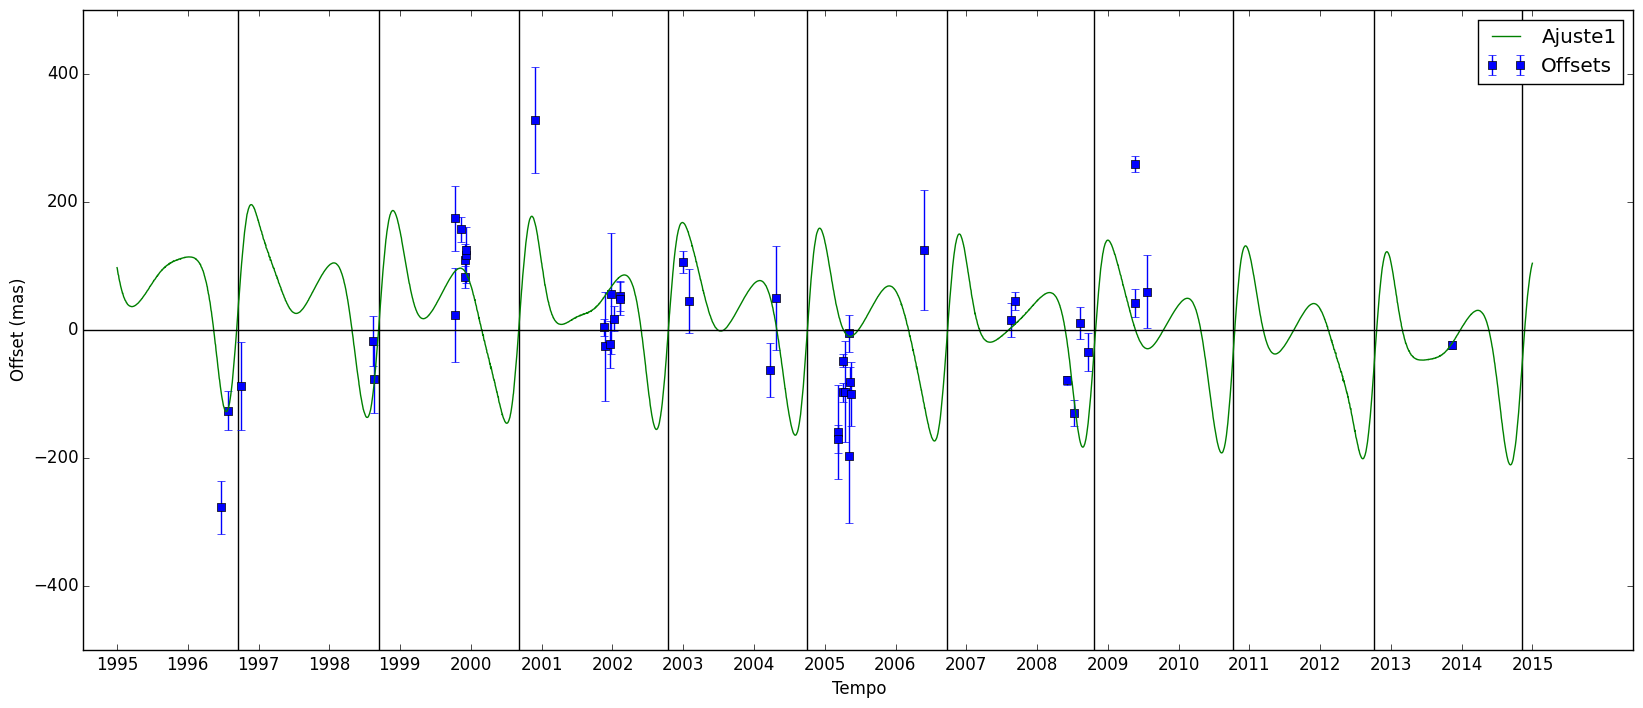
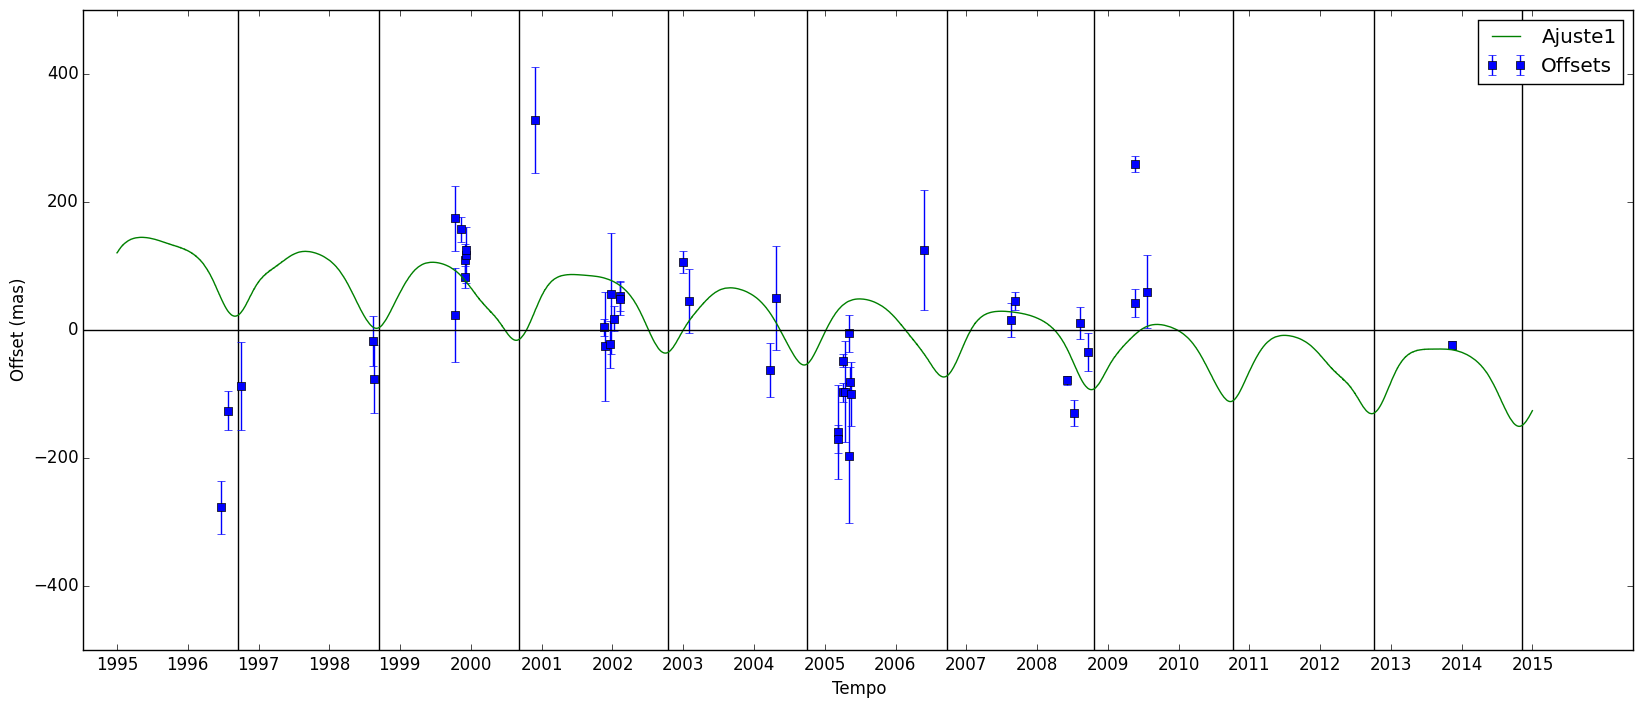
.

diff --git a/offset_irregular/Carme/2015/teste.py b/offset_irregular/Carme/2015/teste.py
@@ -68,12 +68,12 @@ plt.clf()
 
 #################### Ascensao Reta ##################################
 
-B = np.vstack([y[0] - 2451544.5, np.sin(y[3]*u.deg)*np.cos(y[3]*u.deg), np.sin(y[3]*u.deg), np.cos(y[3]*u.deg), np.ones(len(y[3]))]).T
+B = np.vstack([y[0] - 2451544.5, np.sin(y[3]*u.deg), np.cos(y[3]*u.deg), np.ones(len(y[3]))]).T
 
 q = np.linalg.lstsq(B, z[0])
 
 def g(B, x):
-    return B[0]*(x[0] - 2451544.5) + B[1]*np.sin(x[1]*u.deg)*np.cos(x[1]*u.deg) + B[2]*np.sin(x[1]*u.deg) + B[3]*np.cos(x[1]*u.deg) + B[4]
+    return B[0]*(x[0] - 2451544.5) + B[1]*np.sin(x[1]*u.deg) + B[2]*np.cos(x[1]*u.deg) + B[3]
 
 x = np.vstack([y[0], y[3]])
 
